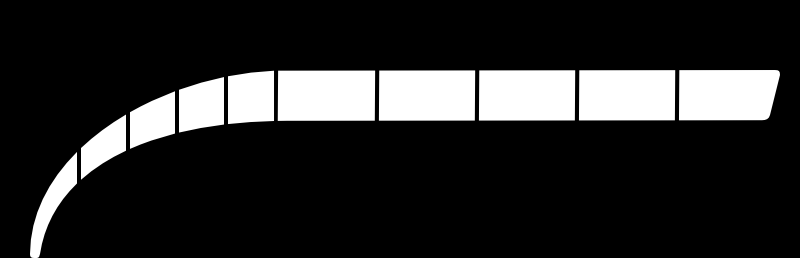
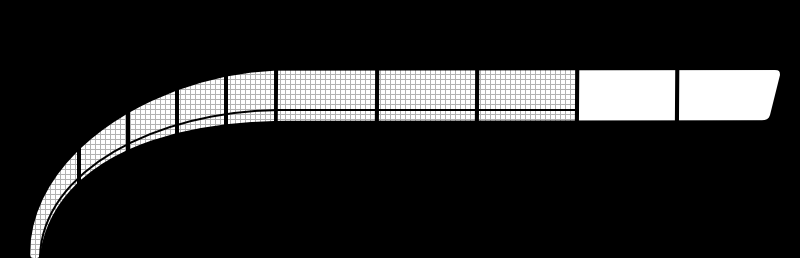
Optimizations
Removed a few mask layers, added some transitionary animations for the x placement not being so stiff. Hopefully will make the movement clearer.

Changed region(s): [[0.0312, 0.2791, 0.7188, 0.9922]]

diff --git a/Taikyu.qml b/Taikyu.qml
@@ -259,6 +259,9 @@ Item {
         width: if(root.rpm <= 5000){30 + (root.rpm * 0.049)} else{
             (root.rpm * 0.1) - 224
         }
+        transitions: Transition {
+            PropertyAnimation { properties: "x"; easing.type: Easing.linear }
+        }
     }
     Rectangle{
         id: rpm_thing_2
@@ -274,7 +277,9 @@ Item {
         else{
             0
         }
-
+        transitions: Transition {
+            PropertyAnimation { properties: "x"; easing.type: Easing.linear }
+        }
     }
     Rectangle{
         id: rpm_thing_3
@@ -290,6 +295,9 @@ Item {
         else{
             0
         }
+        transitions: Transition {
+            PropertyAnimation { properties: "x"; easing.type: Easing.linear }
+        }
     }
     Item{
         id: rpm_line
@@ -302,39 +310,26 @@ Item {
             height: 188; width: 4
             color: root.white_color
         }
+        transitions: Transition {
+            PropertyAnimation { properties: "x"; easing.type: Easing.linear }
+        }
     }
     Image{
         x:0; y:0; z: 10
         id: rpm_line_mask
         source: './taikyu/tach-marker-mask.png';
-       
     } 
-    Image{
-        id: texture_mask
-        x:15.5; y:62; z: 5
-        // source: './taikyu/5pxpinistripe-mask.png'
-        source: './taikyu/5pxGridMask.png'
-        height: 209; width: 560
-        opacity: .4
-        fillMode: Image.Tile
-    }
     Image{
         id: tach_mask 
         x:0; y:0; z:8
         source: './taikyu/tach-mask.png'
     }
-
     Image{
         id: tach_outlines
         x: 28; y: 70; z: 11;
         source: if(!root.sidelight) './taikyu/tach-outlines.png'; else './taikyu/indiglo/tach-outlines.png'
         opacity: 0;
-    }
-    Image{
-        id: tach_splitter
-        x: 37; y: 111; z: 7
-        source: './taikyu/tach-splitter-line.png'
-    }   
+    }  
     Image{
         id: red_zone
         x: 576;y:70;z:1
@@ -413,7 +408,28 @@ Item {
             target: optional_inputs; property: "opacity"; from: 0.00; to: 1.00; duration: 1000
         }
     }
-
+    Timer{
+            interval: 2500; running: root.ignition; repeat: false
+            onTriggered: fifth_step.start()
+        }
+    ParallelAnimation{
+        id: fifth_step
+        NumberAnimation{
+            target: cool_coolant_bar; property: "opacity"; from: 0.00; to: 1.00; duration: 1000
+        }
+        NumberAnimation{
+            target: hot_coolant_bar; property: "opacity"; from: 0.00; to: 1.00; duration: 1000
+        }
+        NumberAnimation{
+            target: coolant_soft_bkg; property: "opacity"; from: 0.00; to: 1.00; duration: 1000
+        }
+        NumberAnimation{
+            target: fuel_bar; property: "opacity"; from: 0.00; to: 1.00; duration: 1000
+        }
+        NumberAnimation{
+            target: fuel_soft_bkg; property: "opacity"; from: 0.00; to: 1.00; duration: 1000
+        }
+    }
     Image{
         id: divider
         x: 20; y:277; z: 4
@@ -553,8 +569,8 @@ Item {
 
 
     Item{
-        id: coolant_temp_display
-        opacity: 0
+         id: coolant_temp_display
+        opacity: 0        
         Image{
             //124 px high
             source:if(!root.sidelight) './taikyu/coolant-mask.png'; else  './taikyu/indiglo/coolant-mask.png'
@@ -562,22 +578,28 @@ Item {
 
         }
         Rectangle{
+            id: cool_coolant_bar
             x: 20
             y: if (root.watertemp <= 100)432 - ((root.watertemp.toFixed(0) - 20) * 1.2125); else 335
             z:3
             color: if(!root.sidelight) root.white_color; else root.night_light_color
             width: 116 
+            opacity: 0
             height: if (root.watertemp <= 100)(root.watertemp.toFixed(0) - 20) * 1.2125; else 97
         }
         Rectangle{
+            id: hot_coolant_bar
             x: 20
             y:if (root.watertemp <= 120) 432 - ((root.watertemp - 20) * 1.2); else 313
             color: if(!root.sidelight) root.warning_red; else root.nightlight_pink
             width: 116;
+            opacity: 0
             height:if (root.watertemp <= 120)(root.watertemp - 20) * 1.2; else 119
             z:2
         }
         Rectangle{
+            id: coolant_soft_bkg
+            opacity: 0
             x:20; y: 313; z: 1
             height: 119; width: 116
             color: root.soft_bkg_color
@@ -607,10 +629,12 @@ Item {
             z: 3
         }
         Rectangle{
+            id: fuel_bar
             x: 672
             y: 432 - (root.fuel * 1.19)
             width: 116 
             height: root.fuel * 1.19
+            opacity: 0
             color: if (root.fuel > 30){
                     if(!root.sidelight) root.white_color; else root.night_light_color
                 }else{
@@ -619,6 +643,8 @@ Item {
             z:2
         }
         Rectangle{
+            id: fuel_soft_bkg
+            opacity: 0
             x:672; y: 313; z: 1
             height: 119; width: 116
             color: root.soft_bkg_color
@@ -702,7 +728,7 @@ Item {
         }
         Item{
             id: afr_group
-            visible: true //Set to False if you don't have a wideband input
+            visible: if(root.afrhigh !== 0) true; else false
             Image{
                 source: if(!root.sidelight) './taikyu/info-stripe.png'; else './taikyu/indiglo/info-stripe.png'
                 x: 423; y: 310; z:2;
@@ -757,7 +783,7 @@ Item {
         source: if (root.speedunits === 0){
             if(!root.sidelight) './taikyu/km.png'; else './taikyu/indiglo/km.png'
         }else{
-                        if(!root.sidelight) './taikyu/mi.png'; else './taikyu/indiglo/mi.png'
+            if(!root.sidelight) './taikyu/mi.png'; else './taikyu/indiglo/mi.png'
         }
     }
     Item{
